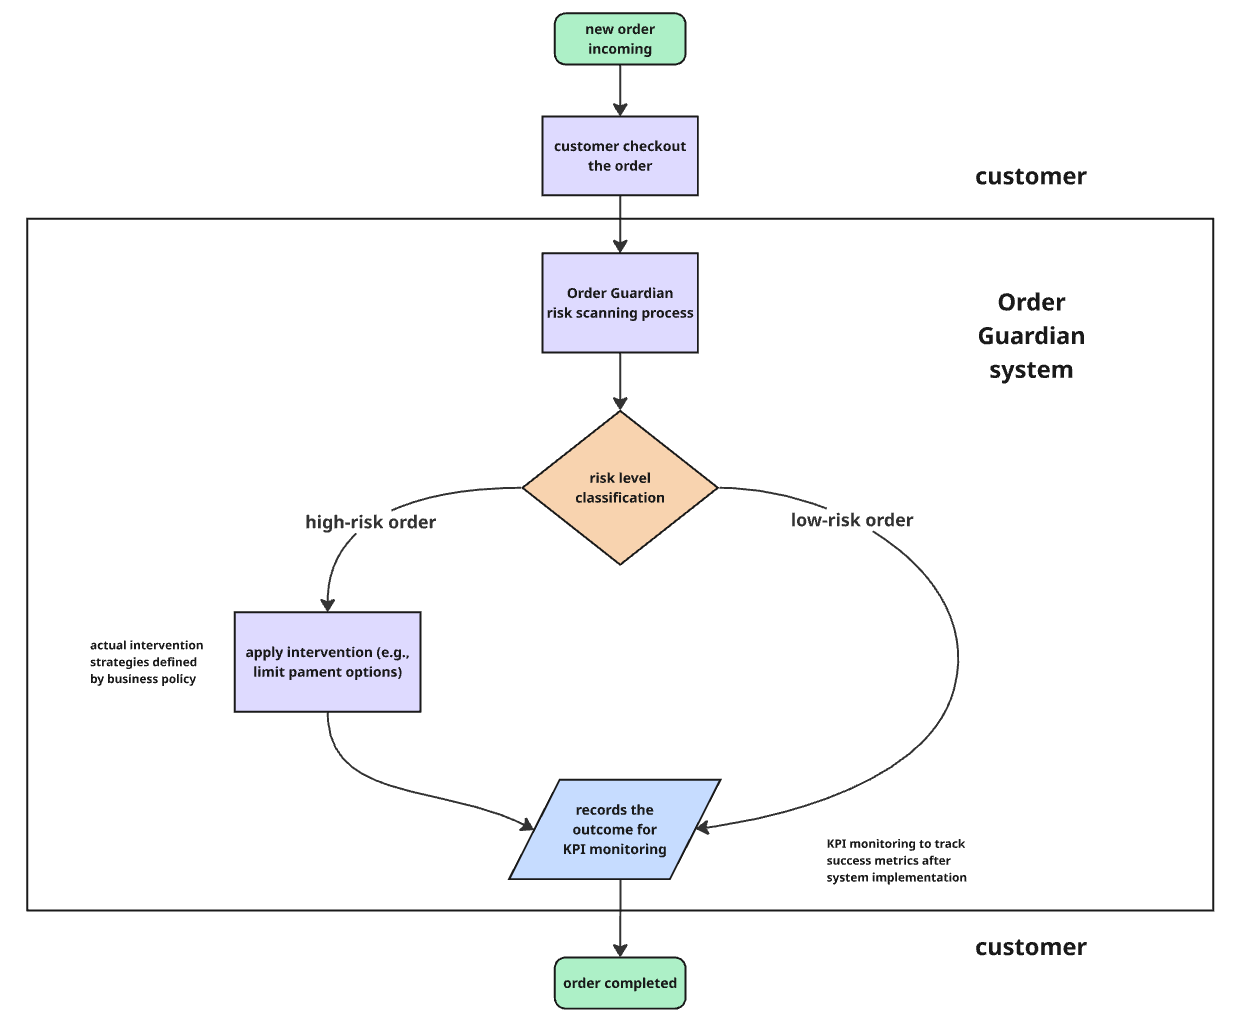
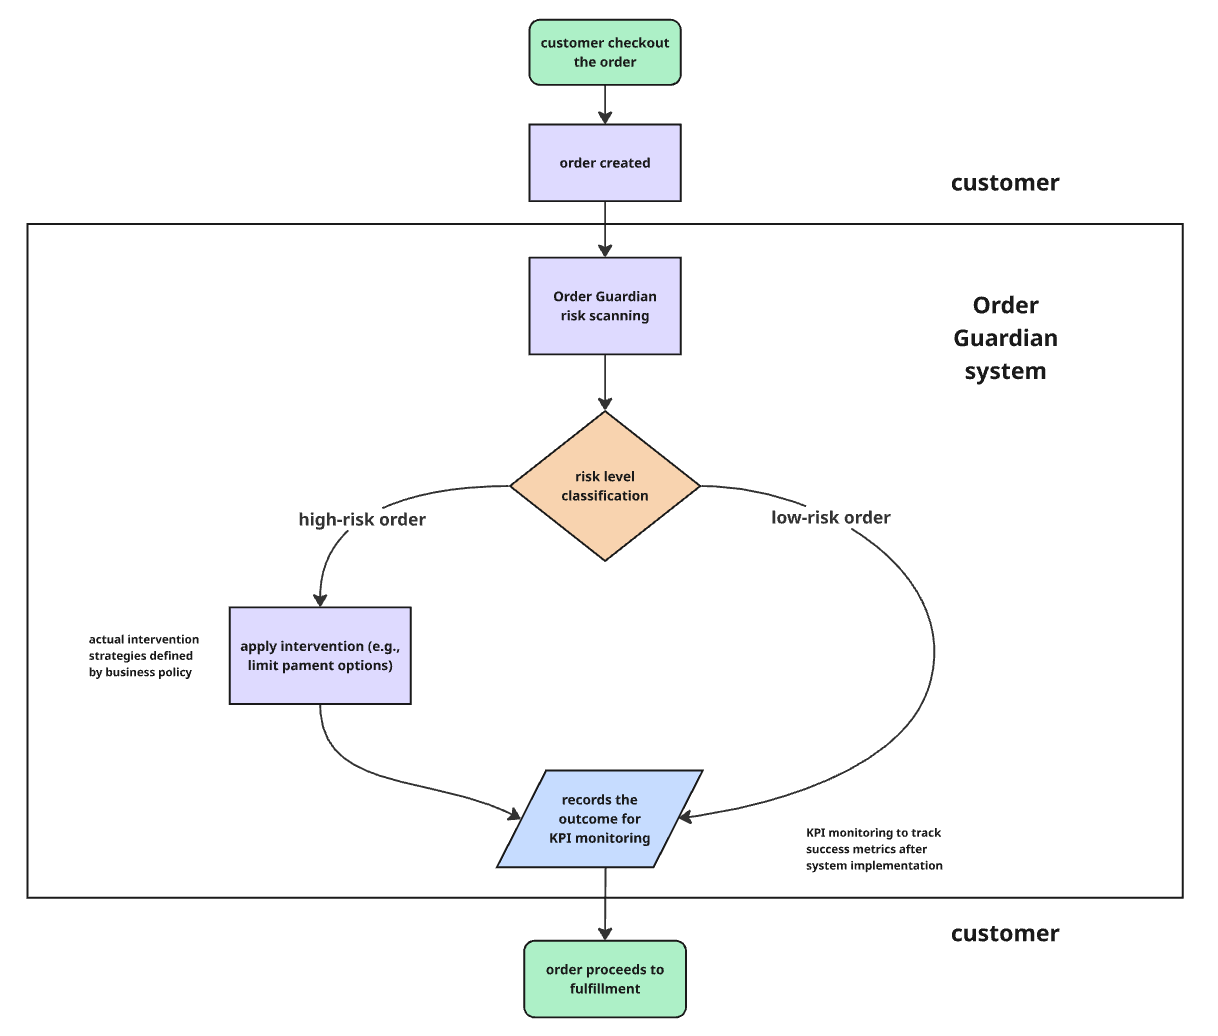
Revision business overview and architecture

diff --git a/business-overview.md b/business-overview.md
@@ -16,9 +16,7 @@
 
 As digital commerce continues to grow, order cancellations have become a significant operational challenge. High cancellation rates can result in revenue not being realized, inefficient inventory allocation, and additional logistic costs, particularly in Cash-on-Delivery (COD) transactions where fulfillment costs may already be incurred before payment is secured.
 
-Order Guardian transforms structured transactional data into actionable risk insights through predictive modeling. By identifying high-risk orders at checkout, the company can take preventive actions to reduce operational waste and improve revenue realization.
-
-The goal of this system is not to eliminate cancellations entirely, but to manage cancellation risk more effectively through data-driven decision support.
+Order Guardian transforms structured transactional data into actionable risk insights through predictive modeling. By identifying high-risk orders immediately after order creation and before the fulfillment process begins, the company can take preventive actions to reduce operational waste and improve revenue realization. The goal of this system is not to eliminate cancellations entirely, but to manage cancellation risk more effectively through data-driven decision support.
 
 ### System Flow Diagram:
 
@@ -26,7 +24,8 @@ The goal of this system is not to eliminate cancellations entirely, but to manag
   <img src="./src/order_guardian-project-architecture.png" width="900" alt="Order Guardian Architecture">
 </p>
 
-The diagram above illustrates how Order Guardian integrates into the order checkout process. Each incoming order is evaluated through a risk scoring mechanism to estimate cancellation risk before fulfillment begins. Based on the predicted risk level, the business may apply different operational policies to high-risk orders while monitoring transaction outcomes through KPI dashboards.
+The diagram above illustrates how Order Guardian integrates into the order checkout process. Each order is evaluated immediately after it is created during the checkout process. 
+The Order Guardian system performs risk scoring before payment options or fulfillment processes proceed, allowing the business to apply preventive policies for orders with higher cancellation risk. Also perform monitoring transaction outcomes through KPI dashboards to analyze the evaluation of system performance.
 
 ## 2. Business Problem
 
